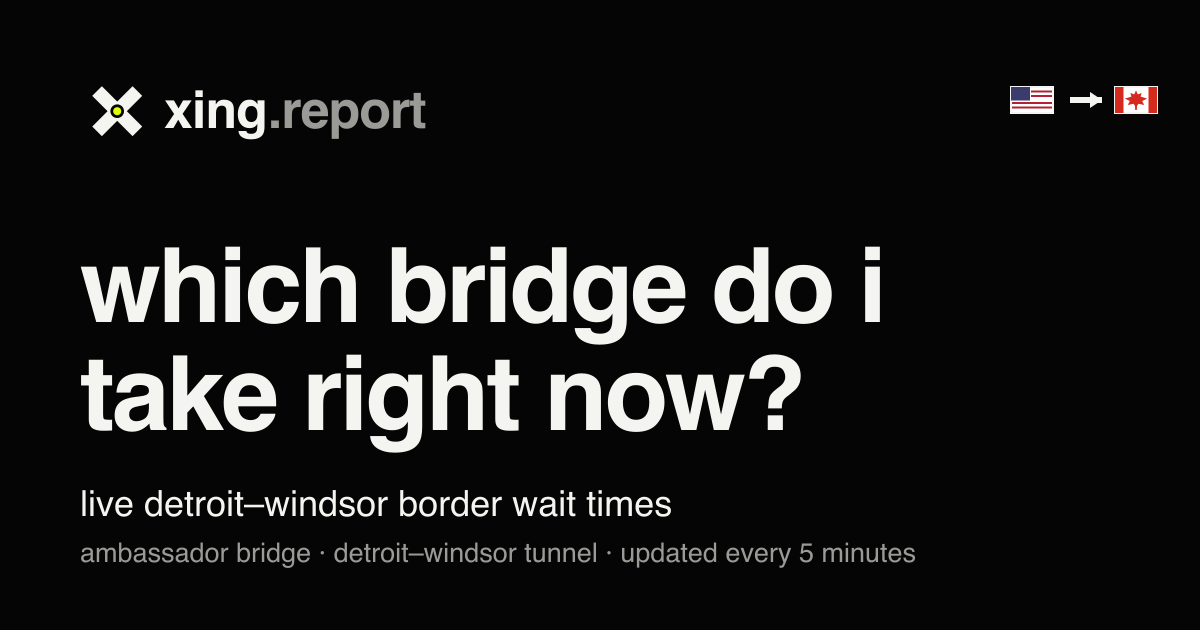
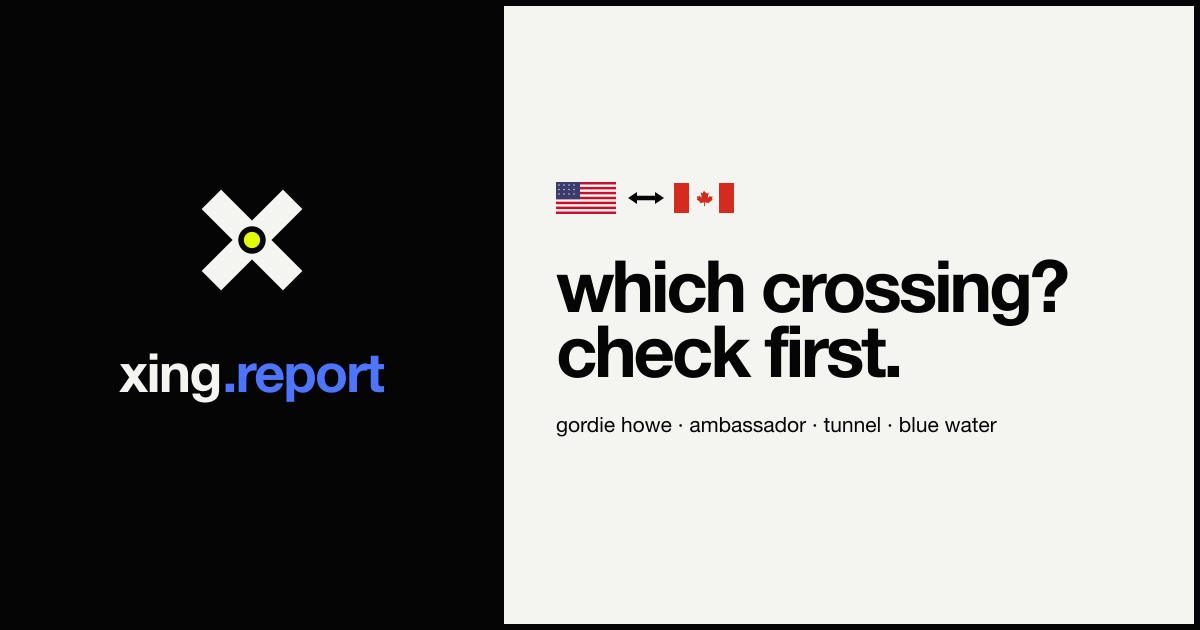
site: swap the OG card to the "which crossing? check first." split design
Ports the 1c "split" bumper sticker from the Claude Design project
(xing.report bumper stickers): ink-left brand block (mark + wordmark,
cobalt .report, volt jewel only) and paper-right message — det↔win flags,
"which crossing? check first.", and the four crossings (gordie howe ·
ambassador · tunnel · blue water). No wait-time numbers (static image).
og:image:alt updated to match.

diff --git a/site/public/index.html b/site/public/index.html
@@ -33,7 +33,7 @@
 <meta property="og:image:width" content="1200">
 <meta property="og:image:height" content="630">
 <meta property="og:image:type" content="image/png">
-<meta property="og:image:alt" content="xing.report — which bridge do i take right now? live detroit–windsor border wait times.">
+<meta property="og:image:alt" content="xing.report — which crossing? check first. live detroit–windsor border wait times: gordie howe, ambassador, tunnel, blue water.">
 <meta name="twitter:card" content="summary_large_image">
 <meta name="twitter:title" content="xing.report — detroit–windsor border wait times">
 <meta name="twitter:description" content="which bridge do i take right now? live ambassador bridge and detroit–windsor tunnel waits, updated every 5 minutes.">